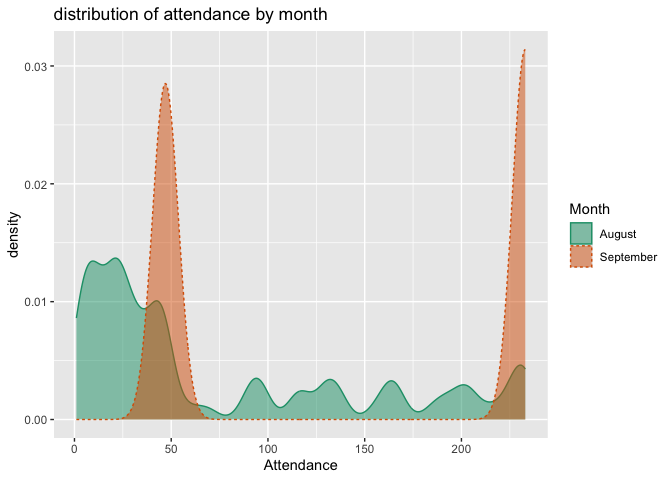
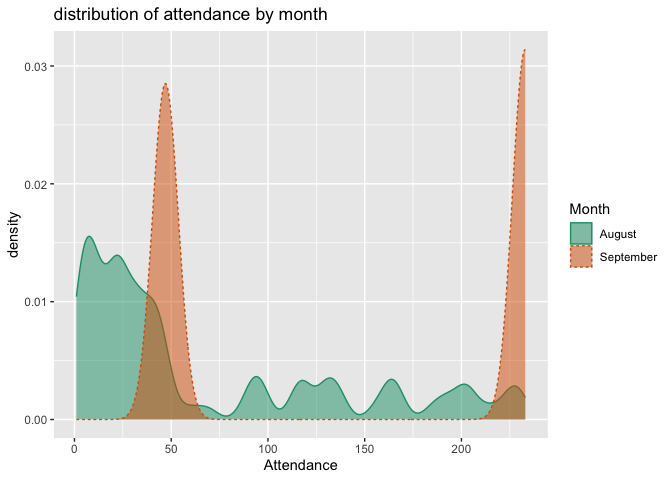
revert to earlier example (show line mutable features as small deltas or tests)

diff --git a/versioning_data/Please_Version_Data.md b/versioning_data/Please_Version_Data.md
@@ -68,12 +68,12 @@ d |>
 
 | Date       | Movie                                                | Time    | Attendance |
 |:-----------|:-----------------------------------------------------|:--------|-----------:|
+| 2024-08-01 | Chronicles of a Wandering Saint                      | 6:40 pm |          6 |
 | 2024-08-01 | Eno                                                  | 6:40 pm |         10 |
 | 2024-08-01 | Longlegs                                             | 8:35 pm |        114 |
 | 2024-08-01 | Staff Pick: Melvin and Howard (35mm)                 | 8:45 pm |         23 |
 | 2024-08-02 | Made in England: The Films of Powell and Pressburger | 6:00 pm |        204 |
 | 2024-08-02 | Lyd                                                  | 6:30 pm |        213 |
-| 2024-08-02 | The Red Shoes                                        | 8:45 pm |        230 |
 
 Our business goal is to build a model relating attendance to popcorn
 sales, which we will apply to future data in order to predict future
@@ -123,12 +123,12 @@ popcorn_sales |>
 
 | Date       | PopcornSales |
 |:-----------|-------------:|
-| 2024-08-01 |           28 |
-| 2024-08-02 |           82 |
-| 2024-08-03 |           65 |
-| 2024-08-04 |           67 |
-| 2024-08-05 |           15 |
-| 2024-08-06 |           81 |
+| 2024-08-01 |           25 |
+| 2024-08-02 |          102 |
+| 2024-08-03 |           76 |
+| 2024-08-04 |           65 |
+| 2024-08-05 |           13 |
+| 2024-08-06 |           80 |
 
 ``` r
 d_train <- d |>
@@ -144,12 +144,12 @@ d_train |>
 
 | Date       | Attendance | PopcornSales |
 |:-----------|-----------:|-------------:|
-| 2024-08-01 |        147 |           28 |
-| 2024-08-02 |        648 |           82 |
-| 2024-08-03 |        439 |           65 |
-| 2024-08-04 |        377 |           67 |
-| 2024-08-05 |         91 |           15 |
-| 2024-08-06 |        472 |           81 |
+| 2024-08-01 |        153 |           25 |
+| 2024-08-02 |        648 |          102 |
+| 2024-08-03 |        439 |           76 |
+| 2024-08-04 |        371 |           65 |
+| 2024-08-05 |         91 |           13 |
+| 2024-08-06 |        472 |           80 |
 
 ``` r
 # model popcorn sales as a function of attendance
@@ -167,18 +167,18 @@ summary(model)
     ## 
     ## Residuals:
     ##      Min       1Q   Median       3Q      Max 
-    ## -17.2124  -2.8715  -0.1313   3.1903  11.4406 
+    ## -11.1726  -2.2676   0.5702   3.2467   7.3703 
     ## 
     ## Coefficients:
-    ##             Estimate Std. Error t value Pr(>|t|)    
-    ## (Intercept) 2.005205   2.237771   0.896     0.38    
-    ## Attendance  0.150011   0.006634  22.614   <2e-16 ***
+    ##              Estimate Std. Error t value Pr(>|t|)    
+    ## (Intercept) -2.684809   1.897652  -1.415    0.171    
+    ## Attendance   0.164917   0.006236  26.445   <2e-16 ***
     ## ---
     ## Signif. codes:  0 '***' 0.001 '**' 0.01 '*' 0.05 '.' 0.1 ' ' 1
     ## 
-    ## Residual standard error: 6.09 on 22 degrees of freedom
-    ## Multiple R-squared:  0.9588, Adjusted R-squared:  0.9569 
-    ## F-statistic: 511.4 on 1 and 22 DF,  p-value: < 2.2e-16
+    ## Residual standard error: 5.047 on 22 degrees of freedom
+    ## Multiple R-squared:  0.9695, Adjusted R-squared:  0.9681 
+    ## F-statistic: 699.4 on 1 and 22 DF,  p-value: < 2.2e-16
 
 We get what *appears* to be a good result: a *highly* predictive model
 that shows about a 15% attachment rate from attendance to popcorn
@@ -264,12 +264,12 @@ d |>
 
 |     | Date       | Movie                                                                      | Time    | Attendance | PredictedPopcorn |
 |:----|:-----------|:---------------------------------------------------------------------------|:--------|-----------:|-----------------:|
-| 188 | 2024-09-26 | Girls Will Be Girls                                                        | 6:30 pm |        233 |             37.0 |
-| 189 | 2024-09-26 | To Be Destroyed / It’s Okay with Dave Eggers                               | 6:30 pm |        233 |             37.0 |
-| 190 | 2024-09-26 | LeatherWeek: Puppies and Leather and Boys!                                 | 8:40 pm |        233 |             37.0 |
-| 191 | 2024-09-27 | Floating Features: Pirates of the Caribbean – The Curse of the Black Pearl | 6:30 pm |        233 |             37.0 |
-| 192 | 2024-09-27 | All Shall Be Well                                                          | 6:30 pm |         47 |              9.1 |
-| 193 | 2024-09-28 | BloodSisters                                                               | 4:00 pm |        233 |             37.0 |
+| 189 | 2024-09-26 | Girls Will Be Girls                                                        | 6:30 pm |        233 |             35.7 |
+| 190 | 2024-09-26 | To Be Destroyed / It’s Okay with Dave Eggers                               | 6:30 pm |        233 |             35.7 |
+| 191 | 2024-09-26 | LeatherWeek: Puppies and Leather and Boys!                                 | 8:40 pm |        233 |             35.7 |
+| 192 | 2024-09-27 | Floating Features: Pirates of the Caribbean – The Curse of the Black Pearl | 6:30 pm |        233 |             35.7 |
+| 193 | 2024-09-27 | All Shall Be Well                                                          | 6:30 pm |         47 |              5.1 |
+| 194 | 2024-09-28 | BloodSisters                                                               | 4:00 pm |        233 |             35.7 |
 
 This looks like only a few different attendance values are reported.
 Let’s dig deeper into that.
@@ -339,11 +339,11 @@ d_est |>
 | Date       | Movie                                                | Time    | EstimatedAttendance |
 |:-----------|:-----------------------------------------------------|:--------|--------------------:|
 | 2024-08-01 | Chronicles of a Wandering Saint                      | 6:40 pm |                  47 |
+| 2024-08-01 | Eno                                                  | 6:40 pm |                 233 |
 | 2024-08-01 | Longlegs                                             | 8:35 pm |                 233 |
 | 2024-08-01 | Staff Pick: Melvin and Howard (35mm)                 | 8:45 pm |                  47 |
 | 2024-08-02 | Made in England: The Films of Powell and Pressburger | 6:00 pm |                 233 |
 | 2024-08-02 | Lyd                                                  | 6:30 pm |                 233 |
-| 2024-08-02 | The Red Shoes                                        | 8:45 pm |                 233 |
 
 Let’s repeat our modeling effort with the uncorrected (not retouched)
 data.

diff --git a/versioning_data/mk_data.md b/versioning_data/mk_data.md
@@ -13,19 +13,14 @@ d <- read.csv('Roxie_schedule_original.csv', strip.white = TRUE, stringsAsFactor
 d$Date <- as.Date(d$Date, format='%Y-%B-%d')
 d$EstimatedAttendance <- sample(c(233, 47), size=nrow(d), replace = TRUE)
 d$Attendance <- round(d$EstimatedAttendance * runif(n = nrow(d)))
-# some estimates are right
-attendance_matches_indexes <- sort(sample.int(nrow(d), 0.05 * nrow(d), replace = FALSE))
-d$Attendance[attendance_matches_indexes] <- d$EstimatedAttendance[attendance_matches_indexes]
-match_table <- table(format(d$Date, format='%B'), d$EstimatedAttendance == d$Attendance)
-stopifnot(sum(match_table > 0) == 4)
-
-knitr::kable(match_table)
+# # some estimates are right
+# attendance_matches_indexes <- sort(sample.int(nrow(d), 0.05 * nrow(d), replace = FALSE))
+# d$Attendance[attendance_matches_indexes] <- d$EstimatedAttendance[attendance_matches_indexes]
+# match_table <- table(format(d$Date, format='%B'), d$EstimatedAttendance == d$Attendance)
+# stopifnot(sum(match_table > 0) == 4)
+# 
+# knitr::kable(match_table)
 ```
-
-|           | FALSE | TRUE |
-|:----------|------:|-----:|
-| August    |    85 |    6 |
-| September |   100 |    3 |
 
 ``` r
 d$PopcornSales <- round(runif(n = nrow(d), min = 0.1, max = 0.2) * d$Attendance)
@@ -43,12 +38,12 @@ knitr::kable(head(popcorn_sales))
 
 | Date       | PopcornSales |
 |:-----------|-------------:|
-| 2024-08-01 |           28 |
-| 2024-08-02 |           82 |
-| 2024-08-03 |           65 |
-| 2024-08-04 |           67 |
-| 2024-08-05 |           15 |
-| 2024-08-06 |           81 |
+| 2024-08-01 |           25 |
+| 2024-08-02 |          102 |
+| 2024-08-03 |           76 |
+| 2024-08-04 |           65 |
+| 2024-08-05 |           13 |
+| 2024-08-06 |           80 |
 
 ``` r
 d$PopcornSales <- NULL
@@ -57,33 +52,33 @@ d$Attendance[format(d$Date, '%B') != 'August'] = d$EstimatedAttendance[format(d$
 
 d_mixed <- d
 d_mixed$EstimatedAttendance <- NULL
-d_mixed <- d_mixed[-1, , drop = FALSE]
+# d_mixed <- d_mixed[-1, , drop = FALSE]
 write.csv(d_mixed, 'Roxie_schedule_as_known_after_August.csv', row.names = FALSE)
 knitr::kable(head(d_mixed))
 ```
 
-|     | Date       | Movie                                                | Time    | Attendance |
-|:----|:-----------|:-----------------------------------------------------|:--------|-----------:|
-| 2   | 2024-08-01 | Eno                                                  | 6:40 pm |         10 |
-| 3   | 2024-08-01 | Longlegs                                             | 8:35 pm |        114 |
-| 4   | 2024-08-01 | Staff Pick: Melvin and Howard (35mm)                 | 8:45 pm |         23 |
-| 5   | 2024-08-02 | Made in England: The Films of Powell and Pressburger | 6:00 pm |        204 |
-| 6   | 2024-08-02 | Lyd                                                  | 6:30 pm |        213 |
-| 7   | 2024-08-02 | The Red Shoes                                        | 8:45 pm |        230 |
+| Date       | Movie                                                | Time    | Attendance |
+|:-----------|:-----------------------------------------------------|:--------|-----------:|
+| 2024-08-01 | Chronicles of a Wandering Saint                      | 6:40 pm |          6 |
+| 2024-08-01 | Eno                                                  | 6:40 pm |         10 |
+| 2024-08-01 | Longlegs                                             | 8:35 pm |        114 |
+| 2024-08-01 | Staff Pick: Melvin and Howard (35mm)                 | 8:45 pm |         23 |
+| 2024-08-02 | Made in England: The Films of Powell and Pressburger | 6:00 pm |        204 |
+| 2024-08-02 | Lyd                                                  | 6:30 pm |        213 |
 
 ``` r
 d_est <- d
 d_est$Attendance <- NULL
-d_est <- d_est[-2, , drop = FALSE]
+# d_est <- d_est[-2, , drop = FALSE]
 write.csv(d_est, 'Roxie_schedule_as_known_before_August.csv', row.names = FALSE)
 knitr::kable(head(d_est))
 ```
 
-|     | Date       | Movie                                                | Time    | EstimatedAttendance |
-|:----|:-----------|:-----------------------------------------------------|:--------|--------------------:|
-| 1   | 2024-08-01 | Chronicles of a Wandering Saint                      | 6:40 pm |                  47 |
-| 3   | 2024-08-01 | Longlegs                                             | 8:35 pm |                 233 |
-| 4   | 2024-08-01 | Staff Pick: Melvin and Howard (35mm)                 | 8:45 pm |                  47 |
-| 5   | 2024-08-02 | Made in England: The Films of Powell and Pressburger | 6:00 pm |                 233 |
-| 6   | 2024-08-02 | Lyd                                                  | 6:30 pm |                 233 |
-| 7   | 2024-08-02 | The Red Shoes                                        | 8:45 pm |                 233 |
+| Date       | Movie                                                | Time    | EstimatedAttendance |
+|:-----------|:-----------------------------------------------------|:--------|--------------------:|
+| 2024-08-01 | Chronicles of a Wandering Saint                      | 6:40 pm |                  47 |
+| 2024-08-01 | Eno                                                  | 6:40 pm |                 233 |
+| 2024-08-01 | Longlegs                                             | 8:35 pm |                 233 |
+| 2024-08-01 | Staff Pick: Melvin and Howard (35mm)                 | 8:45 pm |                  47 |
+| 2024-08-02 | Made in England: The Films of Powell and Pressburger | 6:00 pm |                 233 |
+| 2024-08-02 | Lyd                                                  | 6:30 pm |                 233 |

diff --git a/versioning_data/BuildVersionBase.md b/versioning_data/BuildVersionBase.md
@@ -76,11 +76,11 @@ dbGetQuery(con, "SELECT * from d_data_log") |>
 |  \_fi | \_usi | Date       | Movie                                                | Time    | Attendance |
 |------:|------:|:-----------|:-----------------------------------------------------|:--------|-----------:|
 | 87777 |  1337 | 2024-08-01 | Chronicles of a Wandering Saint                      | 6:40 pm |         47 |
-| 87778 |  1337 | 2024-08-01 | Longlegs                                             | 8:35 pm |        233 |
-| 87779 |  1337 | 2024-08-01 | Staff Pick: Melvin and Howard (35mm)                 | 8:45 pm |         47 |
-| 87780 |  1337 | 2024-08-02 | Made in England: The Films of Powell and Pressburger | 6:00 pm |        233 |
-| 87781 |  1337 | 2024-08-02 | Lyd                                                  | 6:30 pm |        233 |
-| 87782 |  1337 | 2024-08-02 | The Red Shoes                                        | 8:45 pm |        233 |
+| 87778 |  1337 | 2024-08-01 | Eno                                                  | 6:40 pm |        233 |
+| 87779 |  1337 | 2024-08-01 | Longlegs                                             | 8:35 pm |        233 |
+| 87780 |  1337 | 2024-08-01 | Staff Pick: Melvin and Howard (35mm)                 | 8:45 pm |         47 |
+| 87781 |  1337 | 2024-08-02 | Made in England: The Films of Powell and Pressburger | 6:00 pm |        233 |
+| 87782 |  1337 | 2024-08-02 | Lyd                                                  | 6:30 pm |        233 |
 
 ``` r
 d_row_deletions <- data.frame(
@@ -250,11 +250,10 @@ dbGetQuery(con, "SELECT * from d_row_deletions")  |>
   knitr::kable()
 ```
 
-| \_usi |  \_fi |
-|------:|------:|
-|  1212 |  3312 |
-|  1212 |  3313 |
-|  1338 | 87777 |
+| \_usi | \_fi |
+|------:|-----:|
+|  1212 | 3312 |
+|  1212 | 3313 |
 
 Display our views.
 
@@ -271,11 +270,11 @@ d_before_August_view |>
 | Date       | Movie                                                | Time    | Attendance |
 |:-----------|:-----------------------------------------------------|:--------|-----------:|
 | 2024-08-01 | Chronicles of a Wandering Saint                      | 6:40 pm |         47 |
+| 2024-08-01 | Eno                                                  | 6:40 pm |        233 |
 | 2024-08-01 | Longlegs                                             | 8:35 pm |        233 |
 | 2024-08-01 | Staff Pick: Melvin and Howard (35mm)                 | 8:45 pm |         47 |
 | 2024-08-02 | Made in England: The Films of Powell and Pressburger | 6:00 pm |        233 |
 | 2024-08-02 | Lyd                                                  | 6:30 pm |        233 |
-| 2024-08-02 | The Red Shoes                                        | 8:45 pm |        233 |
 
 ``` r
 d_after_August_view <- pull_data_by_usi(con, 1338)
@@ -289,12 +288,12 @@ d_after_August_view |>
 
 | Date       | Movie                                                | Time    | Attendance |
 |:-----------|:-----------------------------------------------------|:--------|-----------:|
+| 2024-08-01 | Chronicles of a Wandering Saint                      | 6:40 pm |          6 |
+| 2024-08-01 | Eno                                                  | 6:40 pm |         10 |
 | 2024-08-01 | Longlegs                                             | 8:35 pm |        114 |
 | 2024-08-01 | Staff Pick: Melvin and Howard (35mm)                 | 8:45 pm |         23 |
 | 2024-08-02 | Made in England: The Films of Powell and Pressburger | 6:00 pm |        204 |
 | 2024-08-02 | Lyd                                                  | 6:30 pm |        213 |
-| 2024-08-02 | The Red Shoes                                        | 8:45 pm |        230 |
-| 2024-08-02 | Longlegs                                             | 8:50 pm |          1 |
 
 ``` r
 dbDisconnect(con)
